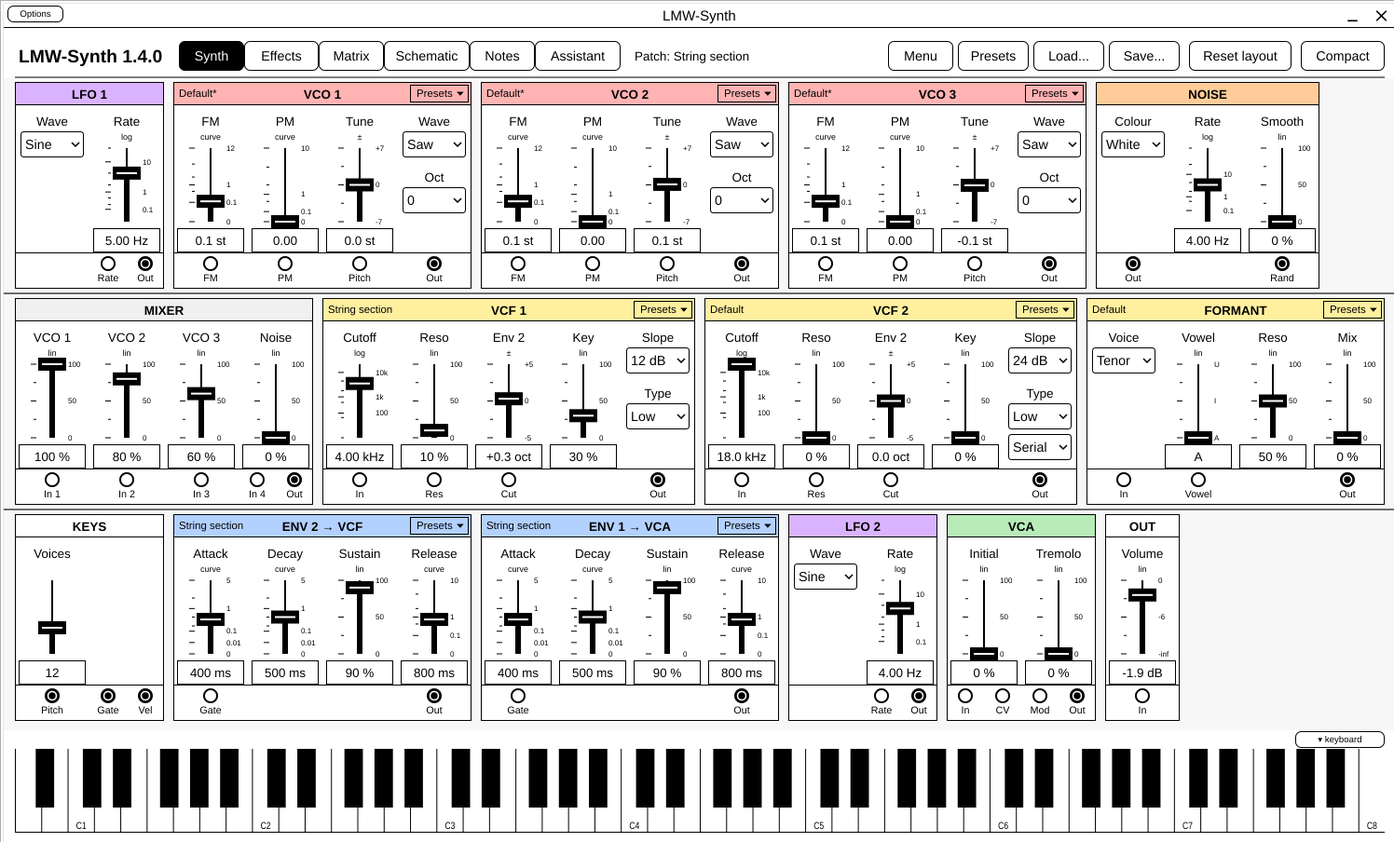
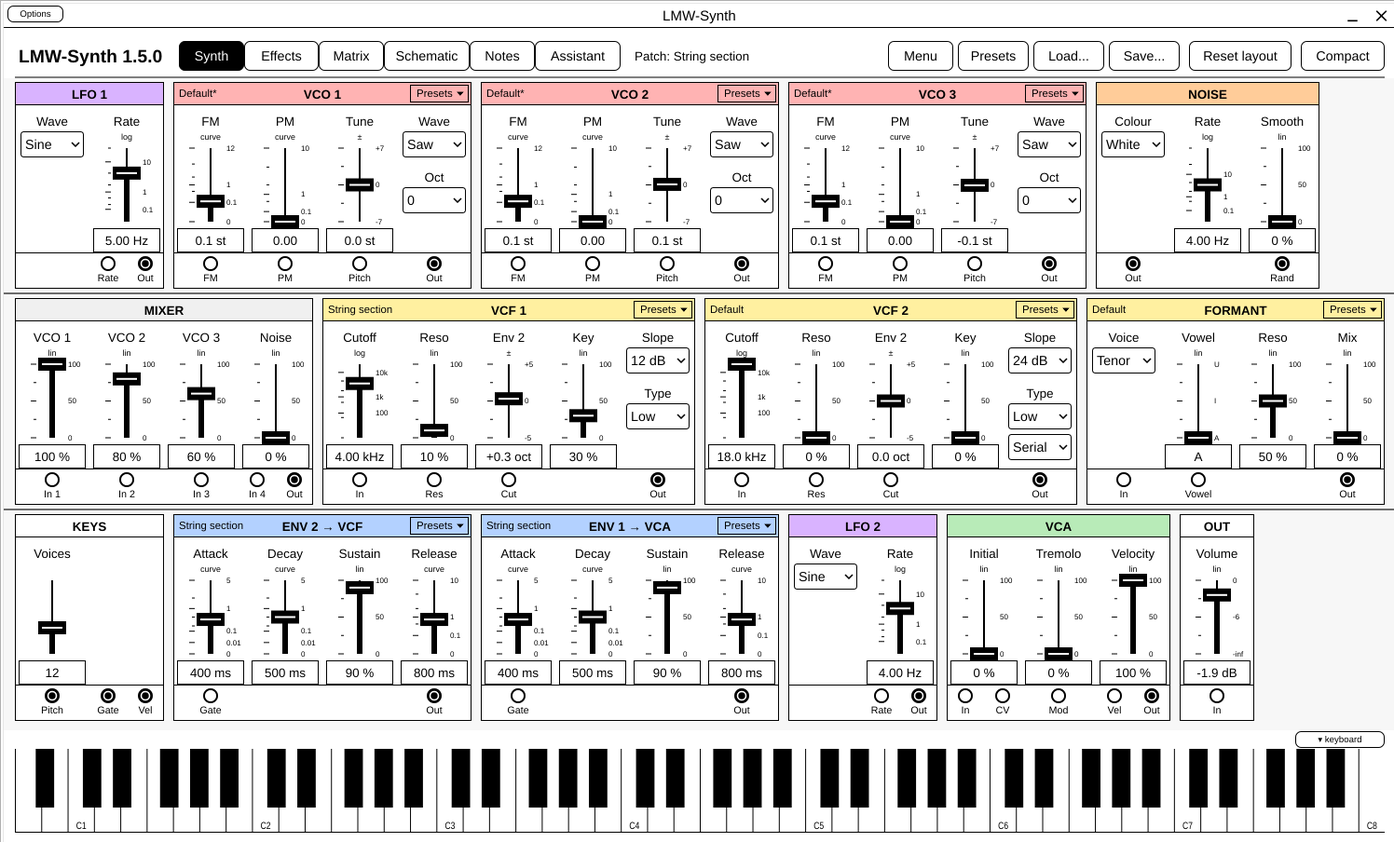
Release 1.5.0: version raised, Changes.md section 1.5.0 (Phases 24-26), upgrade check from 1.4.0 passed (T-S9.6-upgrade-1.5), screenshots with the 1.5.0 title; Spec S6.10, Plan, Tests; logged

Changed region(s): [[0.738, 0.5885, 0.8917, 0.8673]]

diff --git a/architecture/Spec.md b/architecture/Spec.md
@@ -80,7 +80,7 @@ S6.6 Patch points and cables: each module panel has a socket row at the bottom; 
 S6.7 Schematic view (user request 2026-11-09; Phase 12, done 2026-11-13: 12a view, 12b editing, 12c movable symbols). The Schematic tab (tabs Synth | Effects | Matrix | Schematic | Notes) draws the instrument as a stylized schematic, signal flowing left to right, updated live from the patch (S5.14). Symbols (user 2026-11-13), black outlines filled with their unit colour (S6.9), with the module name inside (user 2026-11-13: bold black, 1.7 canvas units, shrunk to fit down to 1.2; triangles on a row free of port labels, left-aligned next to the ports — the centre for VCO, MIX and LFO, between the first two ports for VCF and VCA; ENV, KEYS and NOISE in a strip at the top with the picture below; OUT inside the circle): VCO 1–3, MIX, VCF 1–2, FORMANT (S5.16), VCA, LFO 1–2 as triangles (LFO 1–2 with a rate input since S5.19) pointing right; ENV 1–2 as an ADSR curve in a rectangle; KEYS as a small keyboard (four white keys and one black key, a first try); NOISE as a white-noise trace in a rectangle (like the usual white-noise plot); OUT as a circle with an arrow leaving it to the right (the line-out sign of sound cards). Inputs sit on a block's left edge (white sockets with a black ring), outputs on its right edge (black), a triangle's output at its tip; port names are shown where a block has several inputs or outputs. Layout: LFO 1 and KEYS on the left; VCO 1–3 and NOISE; MIX; VCF 1 → VCF 2 → FORMANT → VCA → OUT in a row, then below it COMB → DELAY → REVERB → MAIN (S7.6, S7.8: OUT is a triangle with the output out.out; MAIN has the line-out symbol, a circle with an arrow, that OUT had before; canvas 160 × 72 units since S7.6, 152 with S5.16, 136 before); ENV 2 above ENV 1 under the mixer; LFO 2 under the VCA (ui/Schematic.h). Connections are curves from an output to an input: normalled ones dashed and behind the blocks (used while the input has no cables), cables solid with a white edge, on top of the blocks — grey at rest, black and thicker for the port under the mouse or the keyboard cursor (user 2026-11-22, as on the Synth tab; the legend says so) — with their level in a small box when below 100 %; vcfN.res without a cable shows no line. Internal links (user 2026-11-13), set by a fader rather than a socket, are thin dotted curves with an arrow into the module body from below (not to a socket), labelled: key tracking keys.pitch → VCF N ("key 50 %") only while that VCF's Key fader is above 0 (S5.13), and keys.vel → VCA ("velocity") always (the VCA multiplies by velocity, S5.8; since Phase 26 no longer an internal link: the normalled port vca.vel, S5.22); they follow the faders at once. The mod wheel has no block: the VCO hover text names it (FM fader + wheel × 1 st, S3.5). Hovering a VCF or the VCA also names its internal link. Hovering a port shows its connections in signal-flow order ("lfo2.out → vcf1.cutoff (50 %), vca.mod (normalled)"; "vcf1.res: not connected"); hovering a block lists all of its ports. A legend explains dashed, solid and dotted. The view scales with the window (also compact). Black and white plus the unit colours, so it follows the contrast presets (white fills at Max). Editing (12b, user 2026-11-13: "like the Synth tab"), with the same rules as S6.6 (shared code, ui/CableEdit.h): drag from a port to a port of the other kind to add a cable (the loose end follows the mouse, the target port gets a ring — since Phase 24a the highlight box of S6.15; an input takes up to 4, a fifth is refused with the same message); dragging from a plugged input picks up its newest cable — dropped on another input it moves there with its level, anywhere else it is removed; Escape cancels. A plugged input shows a black centre. Keyboard: the tab takes focus when opened; Left/Right move a port cursor (a square; since Phase 24a the highlight box of S6.15, as for the port under the mouse) through the ports block by block, inputs before outputs, Up/Down jump to the first port of the next / previous symbol in that order (user 2026-11-16; both wrap around); Enter, Shift+F10 or right-click opens the same cable menu as the Synth tab; Delete or Backspace removes all cables of an input; other keys (QWERTY notes) pass on. Hover texts on ports add these hints. Movable symbols (12c, user 2026-11-13): drag a symbol by its body (not a port) to move it; it snaps to the 1-unit grid, cables and labels follow; while dragging an outline shows where it lands — solid where it fits, dashed where it would overlap another symbol (with its name above it; touching is allowed), leave the canvas or cover the legend, and such a drop is refused (the symbol stays). Escape cancels. Keyboard: Shift+arrows move the symbol that holds the port cursor one step (if it fits). The mouse pointer is a hand over a symbol and a crosshair over a port; a symbol's hover text says it can be moved. On the Schematic tab the header's "Reset layout" button puts all symbols back (on the Synth tab it resets the rack, S6.5); the port menu has "Reset schematic layout" while symbols are moved. The positions are kept in the saved state (property schematicLayout, e.g. "lfo1:2,6;keys:2,23;..." — block id = name in lower case without spaces; empty = default; unreadable, unknown block or overlapping = default) and in patch files (S7.1). A layout saved before FORMANT existed (S5.16) keeps every block it names; FORMANT goes to its default place, or — when another block now stands there — the first free place, row by row (only a block added later may move like this; any other overlap still makes the saved layout fall back to the default).
 S6.8 Matrix view (Phase 10c, 2026-11-12). The Matrix tab (tabs Synth | Effects | Matrix | Schematic | Notes since Phase 12) shows the patch (S5.14) as a VCS3-like pin matrix: one row per input (34 since S5.22, 33 with S7.8, 32 with S7.6, 29 with S5.20, 26 with S5.19, 24 with S5.16, labelled with the input name; gate inputs marked "(on/off)"), one column per output (21 since S7.8, 20 with S7.6, 17 with S5.16, names on two lines: "vcf1" / "out"); thicker lines separate modules. A cell with a cable shows a black bar filled to its level with the level in % (white on the black part, black on the white part, so the text keeps 21:1); an input's normalled source, while it has no cables, is marked with a ring. Mouse (since Phase 17f, user 2026-11-21; before: a click toggled 0 / 100 %, so clicking a cable lost its level): a click selects a cell — the cursor moves there and the level slider shows its level, a cable keeps it; a click on an empty cell makes a cable at 100 % (a gate input: on); drag up/down sets the level (1 % per 1.5 px, whole percents); double-click removes a cable (a gate input: off) — except the cable the first click of that double-click just made, so a double-click on an empty cell leaves a 100 % cable; right-click opens the cell menu, which lists only what is possible: the link as its header, "100 %" (below 100 %), "Type level..." (a black-on-white dialog to type the level in %, 0 removes; since Phase 25a 0 keeps the cable and modulation rows take −100 … 100, with "-100 % (inverted)" in the menu, S5.21), "Remove cable" (gate: "On", "Off (remove cable)"); on an empty cell of a full input only "Input full (4 cables)", greyed; no menu on a struck-through cell. Keyboard (the matrix takes focus when its tab opens): arrows move a cell cursor (thick frame); Shift+F10 opens the cell menu; Space or Enter toggles; + / − change by 10 %, Page Up / Page Down by 1 %; Home = 100 %; Delete, Backspace or End remove; other keys (QWERTY notes) pass on. Gate inputs are on/off only. A cable on an input that already has 4 is refused with a message; hover texts name the crossing ("lfo1.out → vcf1.cutoff: cable at 50 %", "normalled (used while this input has no cables)"). The Synth tab and the matrix are two views of the same patch: changes in one show in the other at once. Row and column labels have their unit colour (S6.9). Finding a crossing (user 2026-11-21): the row and column under the mouse get a grey band over their cells (#E0E0E0, 15.9:1 with black; raised with the contrast preset, white at Max) and their labels invert (white on black); a click on a row label or column header pins that band (click again to release; hover text says so), so moving along it leads to the crossing; the selected cell (the one the level slider shows) has a black frame around its row and column labels. Level slider (user 2026-11-18): a vertical slider on the right of the matrix (0–100 %, whole percents, value box below) shows and sets the level of the cell under the cursor, with that cell named above it ("lfo1.out ↓ vcf1.cutoff"); moving it above 0 on an empty cell makes a cable, 0 removes it (since Phase 25a: moving it on an empty cell makes a cable, 0 keeps it, −100 … +100 % on modulation rows; removing is Remove cable, double-click, Space / Enter, Delete, S5.21). It follows the cursor (click, arrows) and changes made elsewhere (Synth tab, Schematic, 9P, loaded patch). It is off on gate inputs ("on/off only") and on an empty cell of an input that already has 4 cables ("input full"), so it never shows the full-input message. It takes keyboard focus (Tab from the matrix; Up/Down, Page Up/Down); the cursor frame stays visible while it has focus. The type-a-level dialog (double-click) puts the cursor in its text field.
 S6.9 Unit colours (user 2026-11-12). The title bar of each module panel has its unit's colour, a light tint behind the black title text: VCO 1–3 red (#FFB3B3), NOISE orange (#FFCC99), VCF 1–2 and FORMANT (a filter too, S5.16) yellow (#FFF0A0), VCA green (#B8EBB8), ENV 1–2 (ADSR) blue (#B3D1FF), LFO 1–2 purple (#D9B3FF), MIXER a very light grey (#F0F0F0, user 2026-11-14); KEYS, OUT and the effect panels stay white. Black text on these is 11.8:1 to 18.4:1, so the tints are unchanged under AA, AAA and a Custom ratio up to 11.8; above that they are lightened until black text meets the ratio, and at Max (21:1) the bars are white (pure black and white, S6.3). The unit is taken from the first three letters of the panel title or port name (Theme.h unitOf). The same colours are used for the row and column labels of the Matrix tab (S6.8), per port module (e.g. env1.gate blue, noise.rand orange), and for the schematic symbols (S6.7). Every unit colour with black on it is in the contrast pairs (Theme.h) tested for every preset. Effects (user 2026-11-22): COMB has the filter yellow (#FFF0A0), DELAY and REVERB a lighter yellow #FFF8D0 (19.6:1 with black) — on the Effects tab title bars, in the Matrix labels and the Schematic symbols; SYNTH and MAIN stay white.
-S6.10 Version (user 2026-11-18). The header title reads "LMW-Synth <version>" (e.g. "LMW-Synth 1.0.0"; the version is project(VERSION) in CMakeLists.txt: 0.1.0 from the Phase 0 skeleton until 2026-11-18, 0.2.0 with the Windows installer, 1.0.0 the first release (user 2026-11-18: sufficiently mature); then raised with every release (S9.6): 1.1.0 with the preset labels (S7.5), 1.2.1 (2026-11-21) with the installer fix and HTML documents, 1.2.0 (2026-11-21) with FORMANT, VCF routing, Pulse, LFO rate inputs, PM, COMB, DELAY, instrument presets, the tutorial and the Matrix mouse, 1.3.0 (2026-11-22) with the Assistant tab (S12), lmw-mcp (S11), the header Menu, themes, the keyboard toggle and see-through cables, 1.4.0 (2026-11-23) with undo / redo (S6.14), Haiku as the default model and the new default panel order — the installer updates only upwards without asking). The title is a button: click, Enter or Space opens the About dialog; hover underlines it, and its hover text also names the 9P address (S10.5). About... is in the Menu (S6.11; before Phase 21b an "About..." button in the header); compact view shortens "Reset layout" to "Reset". The About dialog (black on white like every alert) shows the version and git commit ("0.1.0 (commit 6747385)", "-dirty" for a build with uncommitted changes, from GITHUB_SHA in CI without .git, else "unknown"), the format (Standalone / VST3), the licence AGPL-3.0-or-later, the source URL, the JUCE version and the 9P address. The commit is taken at every build (cmake/LMWVersion.cmake writes build/generated/LMWVersion.h only when it changes). Also over 9P: /version (S10.10).
+S6.10 Version (user 2026-11-18). The header title reads "LMW-Synth <version>" (e.g. "LMW-Synth 1.0.0"; the version is project(VERSION) in CMakeLists.txt: 0.1.0 from the Phase 0 skeleton until 2026-11-18, 0.2.0 with the Windows installer, 1.0.0 the first release (user 2026-11-18: sufficiently mature); then raised with every release (S9.6): 1.1.0 with the preset labels (S7.5), 1.2.1 (2026-11-21) with the installer fix and HTML documents, 1.2.0 (2026-11-21) with FORMANT, VCF routing, Pulse, LFO rate inputs, PM, COMB, DELAY, instrument presets, the tutorial and the Matrix mouse, 1.3.0 (2026-11-22) with the Assistant tab (S12), lmw-mcp (S11), the header Menu, themes, the keyboard toggle and see-through cables, 1.4.0 (2026-11-23) with undo / redo (S6.14), Haiku as the default model and the new default panel order, 1.5.0 (2026-11-24) with the socket highlight, the window filling the screen, the fader scales (S6.15–S6.17), inverted cable levels and the cable faders in the socket menu (S5.21, S6.18) and the VCA velocity input (S5.22) — the installer updates only upwards without asking). The title is a button: click, Enter or Space opens the About dialog; hover underlines it, and its hover text also names the 9P address (S10.5). About... is in the Menu (S6.11; before Phase 21b an "About..." button in the header); compact view shortens "Reset layout" to "Reset". The About dialog (black on white like every alert) shows the version and git commit ("0.1.0 (commit 6747385)", "-dirty" for a build with uncommitted changes, from GITHUB_SHA in CI without .git, else "unknown"), the format (Standalone / VST3), the licence AGPL-3.0-or-later, the source URL, the JUCE version and the 9P address. The commit is taken at every build (cmake/LMWVersion.cmake writes build/generated/LMWVersion.h only when it changes). Also over 9P: /version (S10.10).
 
 S6.11 Menu (Phase 21b, user 2026-11-22). A "Menu" button in the header (left of Presets; in the standalone and in a DAW) opens: Undo <step> and Redo <step> (S6.14, greyed when there is nothing; since Phase 23b), About LMW-Synth... (S6.10), Contrast ▸ AA 4.5:1 / AAA 7:1 / Max 21:1 / Custom... ("Custom n:1..." when set; S6.3, the current one ticked; written to config.ini at once), Show keyboard (ticked; Ctrl+K, Cmd+K on macOS; S6.12), then Theme ▸ (S6.13) once it exists. The standalone window's Options menu (top bar) gets the same items after JUCE's own (audio/MIDI settings, save/load state, reset): LMWStandaloneWindow in StandaloneApp.cpp builds that menu itself (JUCE's four items, then LMWSynthEditor::addMenuItems, ids from 6000). The header's About button and Contrast box go (the title still opens About, S6.10); a header without them has more room in compact view. Menus list only possible actions (S6.2); the computer keys keep playing after the menu closes (S3.2).
 S6.12 Hide / show keyboard (Phase 21c, user 2026-11-22). The on-screen keyboard can be hidden: the menu item "Show keyboard" (ticked, with its shortcut), Ctrl+K (Cmd+K), and a button in a thin strip above the keyboard, at the right ("▾ keyboard"; hidden, the strip stays at the bottom with "▴ keyboard"; the strip adds 20 px, 17 compact: window 1496×904 shown, 1496×814 hidden). Hidden, the window (standalone) or the plugin editor is shorter by the keyboard's height (since Phase 24b only the plugin editor: the standalone window keeps its size, S6.16); the computer keys and MIDI keep playing. Kept in config.ini (keyboard = shown|hidden, also show/hide, yes/no) and the saved state (property uiKeyboard), like compact (S6.4). While hidden the editor holds the keyboard focus, so the computer keys play (they go to the keyboard component, which plays though not shown).

diff --git a/architecture/Tests.md b/architecture/Tests.md
@@ -137,6 +137,7 @@
 | T-S9.6-upgrade | S9.6, S7.1, S5a.1 | Before 1.2.0: the 1.1.0 release (Ubuntu 24.04 download) on Xvfb, set over 9P vcf1.cutoff 800, vco1.wave Square, reverb.mix 0.3, vca.tremolo 0.2, voice.count 4, cables vcf1.cutoff=lfo2.out@0.5+env2.out, vco1.fm=lfo1.out@0.25, vca.in=vcf1.out, notes; /patch saved; closed by its close button (state saved). The new build on the same settings file: same cables, values and notes, new parameters at their defaults (delay.mix, comb.mix, vco1.pm, formant.mix 0, vcf2.routing Serial), window 1496 × 884 with FORMANT in place; the 1.1.0 patch text written to /patch restores the same (missing parameters back to default, e.g. delay.mix 0.5 → 0) | pass (2026-11-21, Linux native, Xvfb) |
 | T-S9.6-upgrade-1.3 | S9.6, S7.1, S5a.1 | Before 1.3.0: the 1.2.1 release (Ubuntu 24.04 download) on Xvfb with its own HOME, set over 9P vcf1.cutoff 800, vco1.wave Pulse, vco2.pm 1.5, formant.vowel U, formant.mix 0.7, comb.mix 0.2, delay.mix 0.3, voice.count 4, vcf2.routing Parallel, cables vcf1.cutoff=lfo2.out@0.5+env2.out, vco1.fm=lfo1.out@0.25, formant.vowel=lfo1.out@0.3, notes; /patch saved; closed by its close button. The 1.3.0 build on the same settings file: /patch text identical (values, cables, notes), panels in place, window 1496 × 904 (keyboard strip), Assistant tab present; the 1.2.1 patch text written to /patch after changes gives the same text back | pass (2026-11-22, Linux native, Xvfb) |
 | T-S9.6-upgrade-1.4 | S9.6, S6.5, S7.1, S5a.1 | Before 1.4.0: the 1.3.0 release (Ubuntu 24.04 download) on Xvfb with its own HOME, set over 9P vcf1.cutoff 800, vco1.wave Pulse, formant.vowel U, formant.mix 0.7, delay.mix 0.3, comb.mix 0.2, vco2.pm 1.5, voice.count 4, vcf2.routing Parallel, vca.tremolo 0.2, cables vcf1.cutoff=lfo2.out@0.5+env2.out, vco1.fm=lfo1.out@0.25, formant.vowel=lfo1.out@0.3, notes; /patch saved; closed by its close button. The 1.4.0 build on the same settings file: /patch text identical, notes back, window 1496 × 904, the new default panel order (no layout was arranged); the 1.3.0 patch text written to /patch after a change gives the same text back, /history "VCF 1 Cutoff", "> patch". Second run with a fresh HOME: in 1.3.0 OUT dragged to the start of row 3, closed; 1.4.0 keeps that layout (VCO 1 first, OUT first in row 3, ENV 1 before ENV 2) | pass (2026-11-23, Linux native, Xvfb) |
+| T-S9.6-upgrade-1.5 | S9.6, S5.22, S6.5, S6.16, S7.1 | Before 1.5.0: the 1.4.0 release (Ubuntu 24.04 download) on Xvfb with its own HOME, set over 9P vcf1.cutoff 800, vco1.wave Pulse, vca.tremolo 0.2, voice.count 4, formant.mix 0.5, delay.mix 0.3, vcf2.routing Parallel, cables vcf1.cutoff=env2.out@0.5+lfo1.out, vca.cv=env1.out@0.8, formant.vowel=lfo1.out@0.3, notes; /patch saved; OUT dragged to the start of row 3; closed by its close button. The 1.5.0 build on the same settings: window 1920 × 1200 (fills the screen), the layout kept (OUT first in row 3, VCA with Velocity), /patch identical but for the added line vca.velocity = 1 (100 %); the 1.4.0 patch text written to /patch after a change gives the same | pass (2026-11-24, Linux native, Xvfb) |
 | T-S7.5-presets | S7.5 | test_presets: kindOf for every module (lfo1, vco4 refused); all 99 built-in presets (53 + 30 FORMANT since S5.16 + 9 COMB + 7 DELAY since 2026-11-21; comb and delay kinds, folder DELAY; COMB has Flute, Oboe, Clarinet, Bassoon, Guitar (plucked)) set every key of their kind in panel order with unique names, Flute/Recorder/Oboe/Clarinet present for ENV, VCF and VCO; write → parse round trip; parse ignores comments, CRLF and unknown keys, keeps the last of a key twice; refuses another module, no format, format 2, no module line; file names sanitised | pass (2026-11-18; CI run 44348905763 on all four) |
 | T-S7.5-values | S7.5, S10.10 | Host test 4f: every value of every built-in preset written over 9P to env2, vcf2, vco3, reverb and (since S5.16) formant is accepted and reads back as written (246 of 246; 366 of 366 with FORMANT, 2026-11-20; 461 of 461 with comb and delay, 2026-11-21) | pass (2026-11-18, Linux native + Ubuntu 24 container; CI run 44348905763 on all four) |
 | T-S7.5-gui | S7.5 | Xvfb: Presets buttons on VCO 1–3, VCF 1–2, ENV 1–2 and REVERB, also in compact view; ENV 1 Piano sets 2 ms / 3.00 s / 0 % / 500 ms; Save as preset... (name field focused at once) writes ENV/My piano.lmwpreset with attack = 0.002, decay = 3, sustain = 0, release = 0.5; "Typed/name" → Typed_name.lmwpreset; ENV 2's menu lists them under "Your presets" and My piano sets ENV 2; REVERB Cathedral sets 35 / 95 / 30 / 100 % | pass (2026-11-18, Xvfb) |

diff --git a/architecture/Plan.md b/architecture/Plan.md
@@ -37,6 +37,7 @@ Last crosscheck 2026-11-21 evening (after Phase 17–17e; code matched the Spec 
 | 1.2.1 | Bug-fix release (user 2026-11-21): the Windows installer stayed on "Install for" (1.2.0, Windows 10) — fixed and checked under Wine; documents as HTML for every download and the installer, Start menu Tutorial / Read me (S9.8); CI clicks through the installer pages (T-S9.5-pages) | S9.5, S9.8 | released 2026-11-21 (user: installer works on Windows 10; release run 44958833305 green, 6 assets; CI run 44958813697 shows every installer page ok) |
 | 1.3.0 | Release 1.3.0 (user 2026-11-22: "all ai config worked ... for release", "commit and prepare release 1.3.0"): everything since 1.2.1 (Phases 18, 21, 22, the Male voice vowel); upgrade check from 1.2.1 (T-S9.6-upgrade-1.3); version raised, Changes.md section 1.3.0 | S9.6 | released 2026-11-22 (release run 45068222041 green: tag check, four builds incl. T-S12-key on Windows, macOS and Linux, publish; LMW-Synth-1.3.0 setup.exe, -windows.zip, -macos, -ubuntu-24.04, -fedora-45, SHA256SUMS.txt); a first tag on 22d (version 1.2.1) was stopped by the tag check (run 45067897416), nothing built |
 | 1.4.0 | Release 1.4.0 (user 2026-11-23: "commit and prepare release 1.4.0"): everything since 1.3.0 (22f Haiku default and fix, L10 default panel order, Phase 23 undo/redo); upgrade check from 1.3.0 (T-S9.6-upgrade-1.4); version raised, Changes.md section 1.4.0 | S9.6 | released 2026-11-24 (release run 45199716349: macOS first not given a runner by GitHub (capacity), cancelled; the user re-ran it: tag check, four builds, publish green; LMW-Synth-1.4.0 setup.exe, -windows.zip, -macos, -ubuntu-24.04, -fedora-45, SHA256SUMS.txt); build run 45198363354 (40efde0) green on all four |
+| 1.5.0 | Release 1.5.0 (user 2026-11-24: "commit and prepare release 1.5.0"): everything since 1.4.0 (Phases 24–26: socket highlight, window filling the screen, fader scales; inverted cable levels and cable faders in the socket menu; VCA velocity input and fader); upgrade check from 1.4.0 (T-S9.6-upgrade-1.5); version raised, Changes.md section 1.5.0, screenshots with the 1.5.0 title | S9.6 | prepared 2026-11-24; the user pushes, tags v1.5.0 and pushes the tag |
 | 18 | MCP server over 9P (user 2026-11-20; C++ user 2026-11-22): lmw-mcp lets an AI assistant the user is logged in to (Claude Code, Claude Desktop, Gemini CLI) set up a sound from a description | S11 | done 2026-11-22 (CI green on all four platforms with 7fbc969, run 45041576652) |
 | 18a | lmw-mcp core: JSON reader/writer, MCP over stdio (initialize, tools, resources), 9P session shared with lmw9p; tools list_synths, select_synth, describe_synth, get_sound, set_parameters, set_cables, play, name_sound; unit tests with a fake synth, end-to-end in the host test | S11.2–S11.4 | done 2026-11-22 on Linux (T-S11-mcp, T-S11-mcp-host; 32 of 32) |
 | 18b | Presets and guide: list_presets, apply_instrument_preset, apply_module_preset, save_instrument_preset; resources lmw://guide/sound-design (docs/ai/SoundDesign.md) and the tutorial | S11.4, S11.5 | done 2026-11-22 (with 18a) |

diff --git a/architecture/Changes.md b/architecture/Changes.md
@@ -3,6 +3,9 @@
 Changes between releases.
 
 ## Unreleased
+
+## 1.5.0 (2026-11-24)
+- 2026-11-24: Patches and saved settings from 1.4.0 load unchanged (the same sound, cables, notes and a panel layout you arranged); the new VCA Velocity starts at 100 %, which is the sound as before. The window now opens filling the screen.
 - 2026-11-24: VCA Velocity: a fader on the VCA panel sets how much the note velocity changes the loudness (100 % = as before, 0 % = every note equally loud). The velocity arrives on a new socket, VCA Vel (normally from KEYS Vel), so it shows in the Matrix and on the Schematic and a cable can replace it (e.g. NOISE Rand for random accents). Patches from 1.4.0 play the same; a patch with a cable on VCA Vel loses its cables in 1.4.0 or older.
 - 2026-11-24: Cable levels where you patch: right-click a socket (Synth, Effects or Schematic tab) and its menu ends with a fader per connection, output on the left, input on the right; drag to hear the change. Moving a normal connection's fader turns it into cables. Type a level ▸ in the same menu sets one without a mouse.
 - 2026-11-24: Inverted modulation: cables into modulation inputs (VCO pitch, FM, PM; VCF cutoff and resonance; FORMANT vowel; VCA CV and Mod; LFO rates) take a level from -100 % to +100 %. Below 0 the source is inverted: an envelope that closes the filter, keys that make low notes louder. A level of 0 keeps the cable. The Matrix slider and cells show the sign. Patches with an inverted cable lose their cables when opened in 1.4.0 or older.

diff --git a/architecture/Conversation-2026-11-24.md b/architecture/Conversation-2026-11-24.md
@@ -69,3 +69,10 @@
 - Spec written before Phase 26 that it changed, marked "since Phase 26" / S5.22: S5.3 normalled list (keys.vel → vca.vel), S5.5 VCA gain (velocity factor), S5a.1 parameter count 70, S6.6 VCA sockets, S6.7 Schematic internal links, S6.8 Matrix rows 34, S9.2 host parameters 70 (the VST3 total 2150 → 2151 too; the host test checks /info, not that total).
 - Code vs S5.22: as built (noted there). Plan 26, 26a–b, L15 → Phase 26, L18–L20 match; T-S5.22-velocity passes; 36 of 36. lmw-mcp: no tool lists parameters by hand (it reads /info), the AI guide names vca.velocity and vca.vel.
 - User pushed (75f308f). CI run 45427355833 green on Ubuntu, Fedora, Windows, macOS (Phase 26).
+
+## Release 1.5.0
+
+- User: commit (6aa0901) and prepare release 1.5.0.
+- Upgrade check (T-S9.6-upgrade-1.5): 1.4.0 download on Xvfb → sound, cables, notes, OUT moved, closed → the 1.5.0 build: full screen, layout kept, /patch identical but for vca.velocity = 1, round trip ok.
+- Screenshots retaken with the 1.5.0 title (String section, 1496 × 904; the VCA with Velocity). Downloads and test homes removed.
+- Prepared: CMakeLists 1.5.0, Changes "## 1.5.0 (2026-11-24)" with the upgrade note, Spec S6.10, Plan row 1.5.0, Tests.
